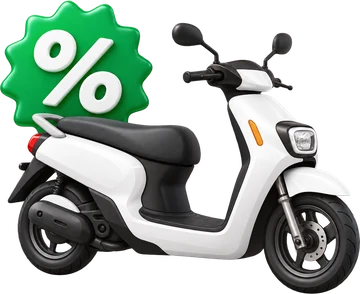
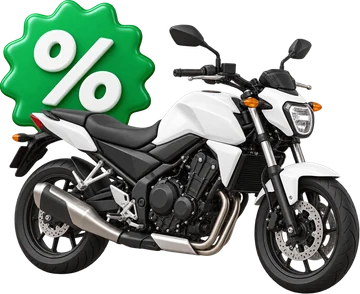
Add E-Rickshaw and XL, DriveWay-style services grid, new vehicle photos
- New bike, bike-lite and e-rickshaw photos, trimmed and resized to 360px
- E-Rickshaw vehicle kind (migrations 0008 + 0009) between Auto and Mini
- SUV shown as "XL" with a white SUV illustration (migration 0010)
- Home: 4-column services grid with Book Any, Rental and Parcel tiles,
  AC/Non-AC switch beside the heading and an AC tag on car tiles
- Hide disabled vehicles on the home grid and rider KYC picker
- Admin vehicle breakdown reads the catalog instead of a fixed list

diff --git a/app/components/customer/HomeScreen.tsx b/app/components/customer/HomeScreen.tsx
@@ -7,10 +7,11 @@ import { BrandMark, Wordmark } from "../Brand";
 import MapView from "../MapView";
 import VehicleArt from "../VehicleArt";
 import ParcelArt from "../ParcelArt";
+import { AnyArt, RentalArt } from "../ServiceArt";
+import { AcPill } from "./BookingScreens";
 import { iconBtn } from "../ui";
 import { CURRENT_LOCATION, PLACES, type Place, type VehicleKind } from "../../lib/data";
 import type { ActiveRide } from "./types";
-import { AcPill } from "./BookingScreens";
 import { useCatalog } from "../../lib/CatalogProvider";
 
 interface HomeProps {
@@ -22,6 +23,7 @@ interface HomeProps {
   ac: boolean;
   onAcChange: (ac: boolean) => void;
   onParcel: () => void;
+  onRental: () => void;
   onQuick: (to: Place) => void;
   onTrack: () => void;
   onOffers: () => void;
@@ -43,7 +45,7 @@ const STATUS_LINE: Record<string, string> = {
 };
 
 export default function HomeScreen(p: HomeProps) {
-  const { vehicles } = useCatalog();
+  const vehicles = useCatalog().vehicles.filter((v) => v.enabled);
   const quick = PLACES.filter((x) => x.kind);
   return (
     <div style={{ paddingBottom: 24 }}>
@@ -106,6 +108,7 @@ export default function HomeScreen(p: HomeProps) {
         </div>
       </div>
 
+
       {/* ── Active ride ── */}
       {p.active && (
         <div style={{ padding: "16px 16px 0" }}>
@@ -134,10 +137,10 @@ export default function HomeScreen(p: HomeProps) {
           <p style={{ margin: 0, fontSize: 19, fontWeight: 700, color: "var(--ink)", letterSpacing: "-0.02em" }}>Our Services</p>
         </div>
         {vehicles.some((v) => v.acOption) && (
-          <div role="radiogroup" aria-label="AC preference for cars" style={{ display: "flex", background: "var(--bg-secondary)", borderRadius: 999, padding: 3 }}>
+          <div role="radiogroup" aria-label="AC or Non-AC cars" style={{ display: "flex", background: "var(--bg-secondary)", borderRadius: 999, padding: 3 }}>
             {[true, false].map((on) => (
               <button key={String(on)} role="radio" aria-checked={p.ac === on} onClick={() => p.onAcChange(on)} style={{
-                border: "none", cursor: "pointer", borderRadius: 999, padding: "5px 11px", fontSize: 12, fontWeight: 600,
+                border: "none", cursor: "pointer", borderRadius: 999, padding: "6px 12px", fontSize: 13, fontWeight: 700,
                 background: p.ac === on ? "var(--surface)" : "transparent", color: p.ac === on ? "var(--blue)" : "var(--ink-soft)",
                 boxShadow: p.ac === on ? "var(--shadow-sm)" : "none", display: "flex", alignItems: "center", gap: 4,
               }}>{on && <SnowIcon s={12} c={p.ac ? "var(--blue)" : "var(--ink-soft)"} />}{on ? "AC" : "Non-AC"}</button>
@@ -145,41 +148,29 @@ export default function HomeScreen(p: HomeProps) {
           </div>
         )}
       </div>
-      <div style={{ padding: "12px 12px 0", display: "grid", gridTemplateColumns: "repeat(5,1fr)", gap: 6 }}>
-        {vehicles.map((v) => (
-          <button key={v.id} onClick={() => p.onSearch(v.id)} className="press" aria-label={v.acOption ? `${v.name} · ${p.ac ? "AC" : "Non-AC"}` : v.name} style={{
+      <div style={{ padding: "12px 12px 0", display: "grid", gridTemplateColumns: "repeat(4,1fr)", rowGap: 14, columnGap: 6 }}>
+        {[
+          ...vehicles.map((v) => ({ key: v.id, name: v.name, art: <VehicleArt kind={v.id} size={50} />, ac: v.acOption, onClick: () => p.onSearch(v.id) })),
+          { key: "any", name: "Book Any", art: <AnyArt size={50} />, ac: true, onClick: () => p.onSearch() },
+          { key: "rental", name: "Rental", art: <RentalArt size={48} />, ac: true, onClick: p.onRental },
+          { key: "parcel", name: "Parcel", art: <ParcelArt size={50} />, ac: false, onClick: p.onParcel },
+        ].map((s) => (
+          <button key={s.key} onClick={s.onClick} className="press" aria-label={s.ac ? `${s.name} · ${p.ac ? "AC" : "Non-AC"}` : s.name} style={{
             background: "none", border: "none", padding: 0, cursor: "pointer",
-            display: "flex", flexDirection: "column", alignItems: "center", gap: 7,
+            display: "flex", flexDirection: "column", alignItems: "center", gap: 7, position: "relative",
           }}>
             <div style={{
-              position: "relative", width: "100%", maxWidth: 66, aspectRatio: "1 / 1", background: "var(--surface)", borderRadius: "28%",
+              position: "relative", width: "100%", maxWidth: 70, aspectRatio: "1 / 1", background: "var(--surface)", borderRadius: "28%",
               display: "flex", alignItems: "center", justifyContent: "center",
               boxShadow: "0 6px 10px -2px rgba(15,23,41,0.16), 0 2px 4px rgba(15,23,41,0.06)",
             }}>
-              <VehicleArt kind={v.id} size={48} />
-              {v.acOption && <span style={{ position: "absolute", bottom: -7, left: "50%", transform: "translateX(-50%)", whiteSpace: "nowrap" }}><AcPill ac={p.ac} /></span>}
+              <span style={s.ac ? { marginTop: -10 } : undefined}>{s.art}</span>
+              {s.ac && <span style={{ position: "absolute", bottom: 5, left: "50%", transform: "translateX(-50%)", whiteSpace: "nowrap" }}><AcPill ac={p.ac} /></span>}
             </div>
-            <span style={{ fontSize: 12.5, fontWeight: 500, color: "var(--ink)" }}>{v.name}</span>
+            {s.key === "parcel" && <span style={{ position: "absolute", top: -6, right: 2, background: "var(--red)", color: "white", fontSize: 9, fontWeight: 700, padding: "2px 6px", borderRadius: 6 }}>NEW</span>}
+            <span style={{ fontSize: 12.5, fontWeight: 600, color: "var(--ink)", whiteSpace: "nowrap" }}>{s.name}</span>
           </button>
         ))}
-      </div>
-
-      {/* ── Parcel delivery ── */}
-      <div style={{ padding: "16px 16px 0" }}>
-        <button onClick={p.onParcel} className="press" style={{
-          width: "100%", border: "1px solid var(--line)", cursor: "pointer", textAlign: "left", borderRadius: 20, padding: "12px 14px 12px 8px",
-          background: "var(--surface)", display: "flex", alignItems: "center", gap: 10, boxShadow: "var(--shadow-card)",
-        }}>
-          <ParcelArt size={84} />
-          <span style={{ flex: 1, minWidth: 0 }}>
-            <span style={{ display: "flex", alignItems: "center", gap: 6 }}>
-              <span style={{ fontSize: 15.5, fontWeight: 700, color: "var(--ink)" }}>Send a Parcel</span>
-              <span style={{ fontSize: 10, fontWeight: 700, color: "var(--blue)", background: "var(--blue-tint)", borderRadius: 6, padding: "2px 6px" }}>NEW</span>
-            </span>
-            <span style={{ display: "block", fontSize: 12, color: "var(--ink-soft)", lineHeight: 1.45, marginTop: 1 }}>Documents, food, groceries &amp; more · up to 100 kg · same-hour delivery</span>
-          </span>
-          <ChevronRight s={18} c="var(--ink-mute)" />
-        </button>
       </div>
 
       <div style={{ paddingTop: 24 }}><PromoCarousel onOffers={p.onOffers} onRide={() => p.onSearch()} /></div>

diff --git a/app/components/ServiceArt.tsx b/app/components/ServiceArt.tsx
@@ -1,0 +1,94 @@
+import { useId } from "react";
+import VehicleArt from "./VehicleArt";
+
+/* Pictures for the home screen's service tiles that have no photo: XL (white SUV), Book Any and Rental. */
+
+const WHITE = ["#ffffff", "#f1f3f7", "#cdd3dd"] as const;
+const YELLOW = ["#ffe066", "#f7c600", "#d9a400"] as const;
+
+function Stops({ c }: { c: readonly [string, string, string] }) {
+  return <><stop offset="0" stopColor={c[0]} /><stop offset="0.55" stopColor={c[1]} /><stop offset="1" stopColor={c[2]} /></>;
+}
+
+function Wheel({ id, x, y, r }: { id: string; x: number; y: number; r: number }) {
+  return (
+    <g>
+      <ellipse cx={x} cy={y} rx={r * 0.82} ry={r} fill="#161b26" />
+      <ellipse cx={x + 0.4} cy={y} rx={r * 0.48} ry={r * 0.6} fill={`url(#${id}r)`} />
+      <ellipse cx={x + 0.4} cy={y} rx={r * 0.16} ry={r * 0.2} fill="#4b5563" />
+    </g>
+  );
+}
+
+/** XL — white SUV with a roof rail, three-quarter view facing right. */
+export function XlArt({ size = 56 }: { size?: number }) {
+  const id = "x" + useId().replace(/[^a-zA-Z0-9]/g, "");
+  const R = 6, C = 8, Y = 8, B = 37.8, wr = 6.2;
+  const side = `M${R} 35.6 Q${R - 1} 27.4 ${R + 6} 25.6 L56 23.2 Q62.6 23.2 63 28 V${B} H${R + 3} Q${R} ${B} ${R} 35.6 Z`;
+  const face = `M63 28 Q63 23.4 58 23.2 L66 23.6 Q73 25 74 30 V35.6 Q74 ${B} 71.4 ${B} H63 Z`;
+  const mid = (R + 56) / 2 - 2;
+  return (
+    <svg width={size} height={Math.round(size * 0.62)} viewBox="0 0 80 50" fill="none" aria-hidden="true">
+      <defs>
+        <linearGradient id={`${id}b`} x1="0" y1="0" x2="0" y2="1"><Stops c={WHITE} /></linearGradient>
+        <linearGradient id={`${id}a`} x1="0" y1="0" x2="0" y2="1"><Stops c={YELLOW} /></linearGradient>
+        <linearGradient id={`${id}g`} x1="0" y1="0" x2="0.3" y2="1"><stop offset="0" stopColor="#3a4658" /><stop offset="1" stopColor="#111827" /></linearGradient>
+        <radialGradient id={`${id}r`} cx="0.4" cy="0.35" r="0.7"><stop offset="0" stopColor="#f4f6fa" /><stop offset="1" stopColor="#8a94a6" /></radialGradient>
+      </defs>
+      <ellipse cx="41" cy="45" rx="34" ry="3.2" fill="rgba(15,23,41,0.13)" />
+      <ellipse cx="71" cy={B - 0.6} rx="2.6" ry="4" fill="#161b26" />
+      {/* cabin, windows, windscreen */}
+      <path d={`M${C} 25.4 Q${C + 2} ${Y + 1.4} ${C + 14} ${Y} L45 ${Y - 0.2} Q51.5 ${Y} 56 ${Y + 4.6} L63 23.4 L${C} 25.4 Z`} fill={`url(#${id}b)`} />
+      <path d={`M${C + 4} 24.6 Q${C + 5.4} ${Y + 3.2} ${C + 14} ${Y + 2.4} L44 ${Y + 2.1} Q48 ${Y + 2.1} 50.4 ${Y + 4.8} L54.4 23.3 Z`} fill={`url(#${id}g)`} />
+      <path d={`M${(C + 58) / 2} ${Y + 2.3} L${(C + 58) / 2 + 0.8} 24`} stroke={WHITE[1]} strokeWidth="1.8" />
+      <path d={`M51.6 ${Y + 2} Q55 ${Y + 1.6} 58 ${Y + 5} L64.6 23.4 L57.6 23.2 Z`} fill={`url(#${id}g)`} />
+      <path d={`M56 ${Y + 3} L60.6 21`} stroke="white" strokeOpacity="0.3" strokeWidth="1.1" strokeLinecap="round" />
+      <path d={`M${C + 8} ${Y + 0.8} Q${C + 12} ${Y - 0.1} ${C + 16} ${Y} L44 ${Y - 0.1}`} stroke="white" strokeWidth="1.1" strokeLinecap="round" fill="none" />
+      {/* body, yellow rear quarter, roof rail */}
+      <path d={side} fill={`url(#${id}b)`} />
+      <path d={`M${R} 35.6 Q${R - 1} 27.4 ${R + 6} 25.6 L${mid} 24.4 L${mid - 2.4} ${B} H${R + 3} Q${R} ${B} ${R} 35.6 Z`} fill={`url(#${id}a)`} />
+      <path d={`M${C + 7} ${Y - 1} L44 ${Y - 1.3}`} stroke="#1f2937" strokeWidth="1.3" strokeLinecap="round" />
+      <path d={`M${R + 5} 27.2 L62 25.6`} stroke="white" strokeOpacity="0.8" strokeWidth="0.9" strokeLinecap="round" />
+      <path d={`M${(C + 58) / 2 + 0.8} 24.2 V${B - 1.6}`} stroke="#0f1729" strokeOpacity="0.16" strokeWidth="0.7" />
+      <rect x={(C + 58) / 2 + 2.4} y="27.2" width="3.2" height="0.9" rx="0.45" fill="#0f1729" opacity="0.3" />
+      <path d={`M${R + 0.6} 28.2 V31`} stroke="#e23d3d" strokeWidth="1.5" strokeLinecap="round" />
+      {/* front face */}
+      <path d={face} fill={`url(#${id}b)`} />
+      <path d={face} fill="#0f1729" opacity="0.07" />
+      <ellipse cx="65.6" cy="28" rx="1.7" ry="1.25" fill="#fff7d6" stroke="#9aa3b2" strokeWidth="0.4" />
+      <ellipse cx="72.4" cy="29.4" rx="1.2" ry="1.15" fill="#fff7d6" stroke="#9aa3b2" strokeWidth="0.4" />
+      <rect x="66.4" y="31.6" width="6" height="2.2" rx="1" fill="#1f2937" />
+      <path d={`M${R + 1} ${B - 3} L74 ${B - 3.4} V35.6 Q74 ${B} 71.4 ${B} H${R + 3} Q${R} ${B} ${R} 35.6 Z`} fill="#0f1729" opacity="0.12" />
+      {/* wheels */}
+      <ellipse cx={R + 12} cy={B - 0.6} rx={wr * 1.04} ry={wr * 1.14} fill="#0f1729" opacity="0.5" />
+      <ellipse cx="55" cy={B - 0.6} rx={wr * 1.04} ry={wr * 1.14} fill="#0f1729" opacity="0.5" />
+      <Wheel id={id} x={R + 12} y={B} r={wr} />
+      <Wheel id={id} x={55} y={B} r={wr} />
+    </svg>
+  );
+}
+
+/** "Book Any" — two cars, one behind the other. */
+export function AnyArt({ size = 56 }: { size?: number }) {
+  return (
+    <span style={{ position: "relative", display: "inline-block", width: size, height: Math.round(size * 0.62) }}>
+      <span style={{ position: "absolute", left: size * 0.24, top: -size * 0.07, opacity: 0.9 }}><VehicleArt kind="sedan" size={size * 0.8} /></span>
+      <span style={{ position: "absolute", left: 0, top: size * 0.08 }}><VehicleArt kind="mini" size={size * 0.8} /></span>
+    </span>
+  );
+}
+
+/** Hourly rental — car with a clock badge. */
+export function RentalArt({ size = 56 }: { size?: number }) {
+  const b = size * 0.36;
+  return (
+    <span style={{ position: "relative", display: "inline-block", width: size, height: Math.round(size * 0.62) }}>
+      <VehicleArt kind="mini" size={size} />
+      <svg width={b} height={b} viewBox="0 0 24 24" style={{ position: "absolute", left: -2, top: -4 }} aria-hidden="true">
+        <circle cx="12" cy="12" r="11" fill="var(--green)" />
+        <circle cx="12" cy="12" r="7.5" fill="white" />
+        <path d="M12 8v4.5l2.8 1.8" stroke="#0f1729" strokeWidth="1.8" strokeLinecap="round" fill="none" />
+      </svg>
+    </span>
+  );
+}

diff --git a/app/components/VehicleArt.tsx b/app/components/VehicleArt.tsx
@@ -1,6 +1,7 @@
 import { useId } from "react";
 import Image from "next/image";
 import type { VehicleKind } from "../lib/data";
+import { XlArt } from "./ServiceArt";
 
 /* Vehicle pictures for fare lists, ride cards and profiles. Photos live in public/vehicles/ (transparent
  * WebP); a kind without a photo falls back to the drawn three-quarter illustration below. */
@@ -8,6 +9,7 @@ import type { VehicleKind } from "../lib/data";
 const PHOTOS: Partial<Record<VehicleKind, string>> = {
   bike: "/vehicles/bike.webp",
   auto: "/vehicles/auto.webp",
+  erick: "/vehicles/erick.webp",
   mini: "/vehicles/mini.webp",
   sedan: "/vehicles/sedan.webp",
 };
@@ -33,11 +35,11 @@ export default function VehicleArt({ kind, size = 56 }: { kind: VehicleKind; siz
   if (photo) {
     return <Image src={photo} alt="" aria-hidden="true" width={size} height={h} style={{ width: size, height: h, objectFit: "contain" }} />;
   }
+  if (kind === "suv") return <XlArt size={size} />;
 
-  const car: Record<"mini" | "sedan" | "suv", Car> = {
+  const car: Record<"mini" | "sedan", Car> = {
     mini: { body: ["var(--gold)", "var(--blue-dark)"], front: "var(--blue-dark)", trim: "#ffffff" },
     sedan: { body: ["#ffffff", "#d3dae6"], front: "#c3ccdb", trim: "var(--blue)" },
-    suv: { body: ["#7b8597", "#3a4252"], front: "#323947", trim: "#cfd6e2" },
   };
 
   return (
@@ -56,7 +58,7 @@ export default function VehicleArt({ kind, size = 56 }: { kind: VehicleKind; siz
           <stop offset="0.55" stopColor="#1f2a3d" />
           <stop offset="1" stopColor="#111827" />
         </linearGradient>
-        {(kind === "mini" || kind === "sedan" || kind === "suv") && (
+        {(kind === "mini" || kind === "sedan") && (
           <linearGradient id={`${id}-body`} x1="0" y1="0" x2="0" y2="1">
             <stop offset="0" style={{ stopColor: car[kind].body[0] }} />
             <stop offset="1" style={{ stopColor: car[kind].body[1] }} />
@@ -68,7 +70,7 @@ export default function VehicleArt({ kind, size = 56 }: { kind: VehicleKind; siz
 
 
 
-      {(kind === "mini" || kind === "sedan" || kind === "suv") && (() => {
+      {(kind === "mini" || kind === "sedan") && (() => {
         const c = car[kind];
         const P = {
           mini: {
@@ -89,20 +91,10 @@ export default function VehicleArt({ kind, size = 56 }: { kind: VehicleKind; siz
             door: 60.5, lamp: "M6.5 30.5 L15.5 29.5 L15.5 32.5 L6.5 33.5z", grille: "M6.5 36 L16 35.6 L16 39.5 L6.5 40z",
             tail: "M92 29 L95 30 L95 33 L92.5 32.5z", stripe: true,
           },
-          suv: {
-            far: { cx: 11, cy: 46 }, near: [29, 81] as const, r: [7.6, 8.8] as const,
-            front: "M4 42 L4 30 Q4 26.5 8.5 25.5 L18 24.5 L18 46 L6 46 Q4 46 4 44z",
-            side: "M18 24.5 L32 23 L39.5 11 Q41 9 45 9 L85 9 Q88.5 9 89.5 12.5 L93 23.5 Q95.5 25 95.5 29.5 L95.5 42 Q95.5 46 91.5 46 L18 46z",
-            shield: "M18 24.5 L32 23 L39.5 11 L35 11.5 Q32 12.5 30 15.5 L21 23.6z",
-            win: ["M34.5 23 L41.5 12 L56 12 L56 23z", "M59 12 L72 12 L72 23 L59 23z", "M75 12 L85 12 Q87.3 12 88 14.2 L91 22.6 L75 23z"],
-            door: 57.5, lamp: "M5.5 28.5 L15.5 27.5 L15.5 31 L5.5 32z", grille: "M5.5 34 L16 33.4 L16 39 L5.5 39.6z",
-            tail: "M93 25.5 L95.5 26.5 L95.5 31 L93.5 30.5z", stripe: false,
-          },
         }[kind];
         return (
           <>
             <ellipse cx={P.far.cx} cy={P.far.cy} rx={4} ry={6.5} fill="#1a1e26" />
-            {kind === "suv" && <path d="M44 7.5 L86 7.5" stroke="#2a303c" strokeWidth="1.6" strokeLinecap="round" />}
             <path d={P.front} fill={c.front} />
             <path d={P.side} fill={`url(#${id}-body)`} />
             <path d={P.shield} fill={`url(#${id}-glass)`} />

diff --git a/app/admin/AdminApp.tsx b/app/admin/AdminApp.tsx
@@ -297,12 +297,12 @@ export function AdminLogin() {
 /* ───────────────────────── Dashboard ───────────────────────── */
 
 function Dashboard({ rides, drivers, customers, pending, open, go }: { rides: Ride[]; drivers: Driver[]; customers: Customer[]; pending: number; open: number; go: (s: Section) => void }) {
-  const { vehicleById } = useCatalog();
+  const { vehicles, vehicleById } = useCatalog();
   const onlineNow = drivers.filter((d) => d.online && !d.suspended).length;
   const completed = rides.filter((r) => r.status === "Completed").length;
   const cancelled = rides.filter((r) => r.status === "Cancelled").length;
-  const byVehicle = (["sedan", "auto", "mini", "bike", "suv"] as const)
-    .map((k) => [k, rides.length ? Math.round((rides.filter((r) => r.vehicle === k).length / rides.length) * 100) : 0] as const)
+  const byVehicle = vehicles
+    .map(({ id: k }) => [k, rides.length ? Math.round((rides.filter((r) => r.vehicle === k).length / rides.length) * 100) : 0] as const)
     .sort((a, b) => b[1] - a[1]);
   return (
     <div style={{ display: "flex", flexDirection: "column", gap: 14 }}>

diff --git a/app/customer/CustomerApp.tsx b/app/customer/CustomerApp.tsx
@@ -380,8 +380,9 @@ export default function CustomerApp() {
               <HomeScreen
                 firstName={firstName} active={active} unread={unread}
                 onSearch={(prefer) => startBooking(undefined, prefer)}
-                ac={preferAc} onAcChange={(on) => { setPreferAc(on); writeAc(on); }}
+                ac={preferAc} onAcChange={(on) => { setPreferAc(on); writeAc(on); flash(on ? "AC vehicles selected" : "Non-AC vehicles selected"); }}
                 onParcel={() => startBooking(undefined, undefined, "parcel")}
+                onRental={() => flash("Hourly rentals are coming soon")}
                 onQuick={(to) => startBooking(to)}
                 onTrack={() => push(active?.status === "Completed" ? { k: "done" } : { k: "live" })}
                 onOffers={() => goTab("offers")}

diff --git a/app/components/rider/Kyc.tsx b/app/components/rider/Kyc.tsx
@@ -34,7 +34,7 @@ export function KycFlow({ initial, account, onLogout, onSubmit }: {
   account?: string; onLogout?: () => void;
   onSubmit: (k: KycData) => Promise<{ message: string; field?: "phone" | "plate" } | null>;
 }) {
-  const { vehicles } = useCatalog();
+  const vehicles = useCatalog().vehicles.filter((v) => v.enabled);
   const [step, setStep] = useState(0);
   const [busy, setBusy] = useState(false);
   const [err, setErr] = useState<{ message: string; field?: "phone" | "plate" } | null>(null);

diff --git a/app/lib/data.ts b/app/lib/data.ts
@@ -2,7 +2,7 @@
  * The catalog (vehicles, parcel weights, coupons, hotspots, incentives) lives in Supabase — see lib/catalog.ts.
  * Everything else here is still sample data until those screens move to Supabase too. */
 
-export type VehicleKind = "bike" | "auto" | "mini" | "sedan" | "suv";
+export type VehicleKind = "bike" | "auto" | "erick" | "mini" | "sedan" | "suv";
 
 export interface Vehicle {
   id: VehicleKind;

diff --git a/AGENTS.md b/AGENTS.md
@@ -1,5 +1,9 @@
 <!-- BEGIN:nextjs-agent-rules -->
-# This is NOT the Next.js you know
 
-This version has breaking changes — APIs, conventions, and file structure may all differ from your training data. Read the relevant guide in `node_modules/next/dist/docs/` before writing any code. Heed deprecation notices.
+## This is NOT the Next.js you know
+
+This version has breaking changes — APIs, conventions, and file structure may all differ from your training data. Read the relevant guide in `node_modules/next/dist/docs/` (resolved from this file's directory; in monorepos the `next` package may not be visible from the repo root) before writing any code. Heed deprecation notices.
+
+This block is written and re-added by `next dev` — verify at `node_modules/next/dist/server/lib/generate-agent-files.js`. Removing it from a diff only re-creates the uncommitted change; committing it with your work keeps the tree clean.
+
 <!-- END:nextjs-agent-rules -->
